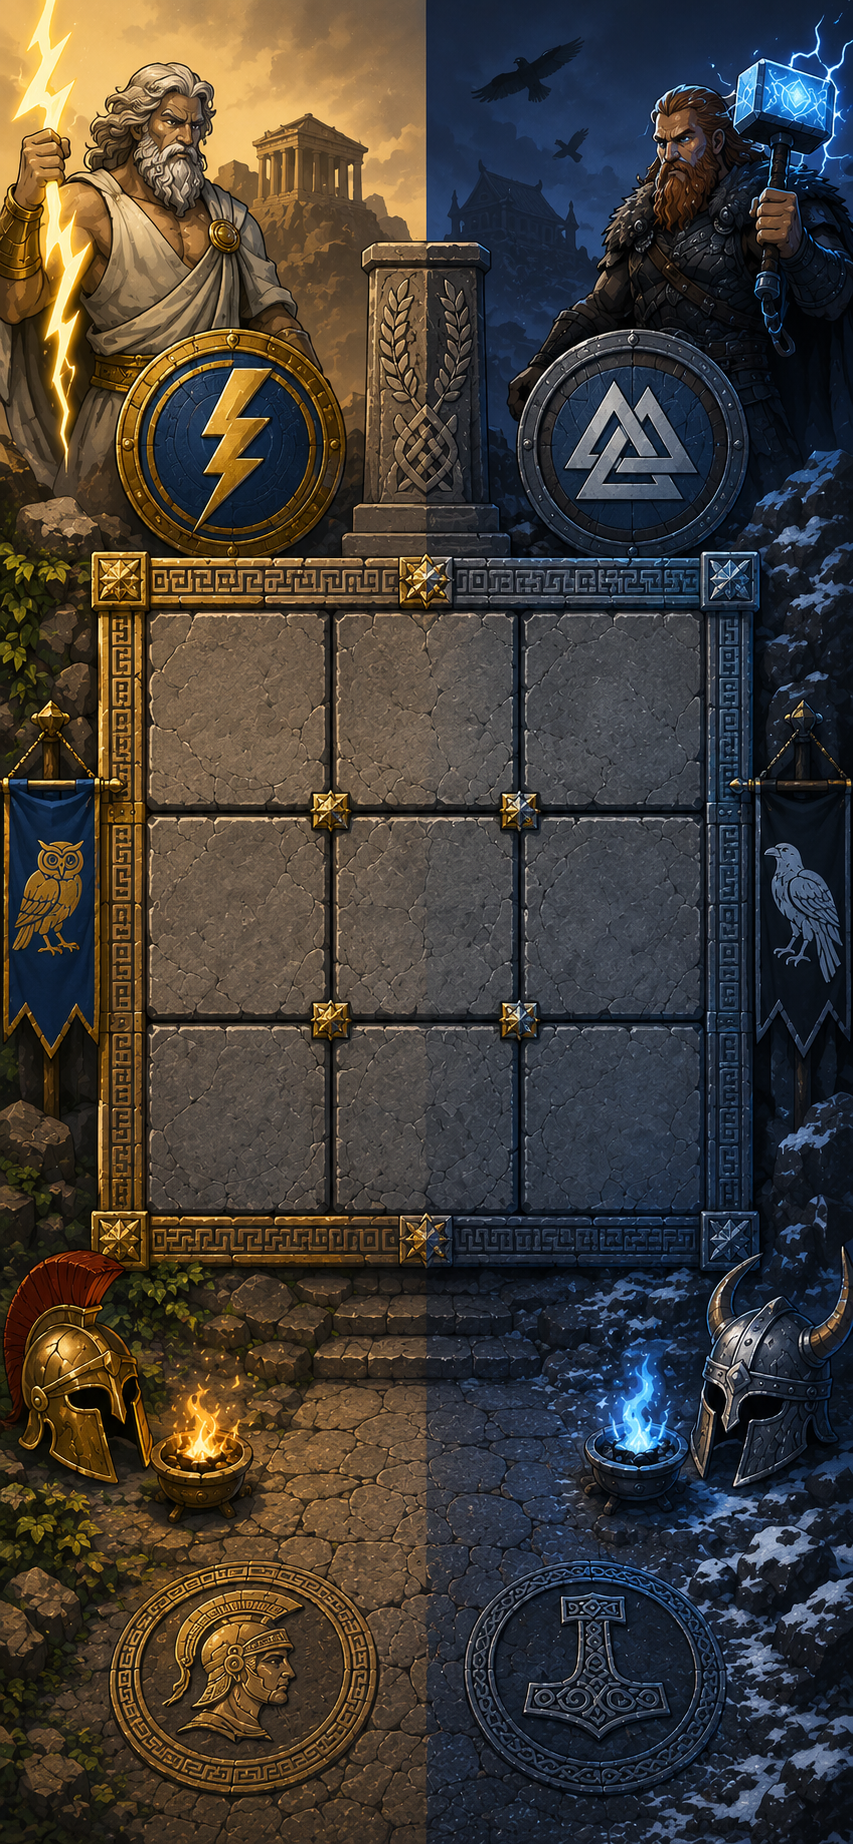
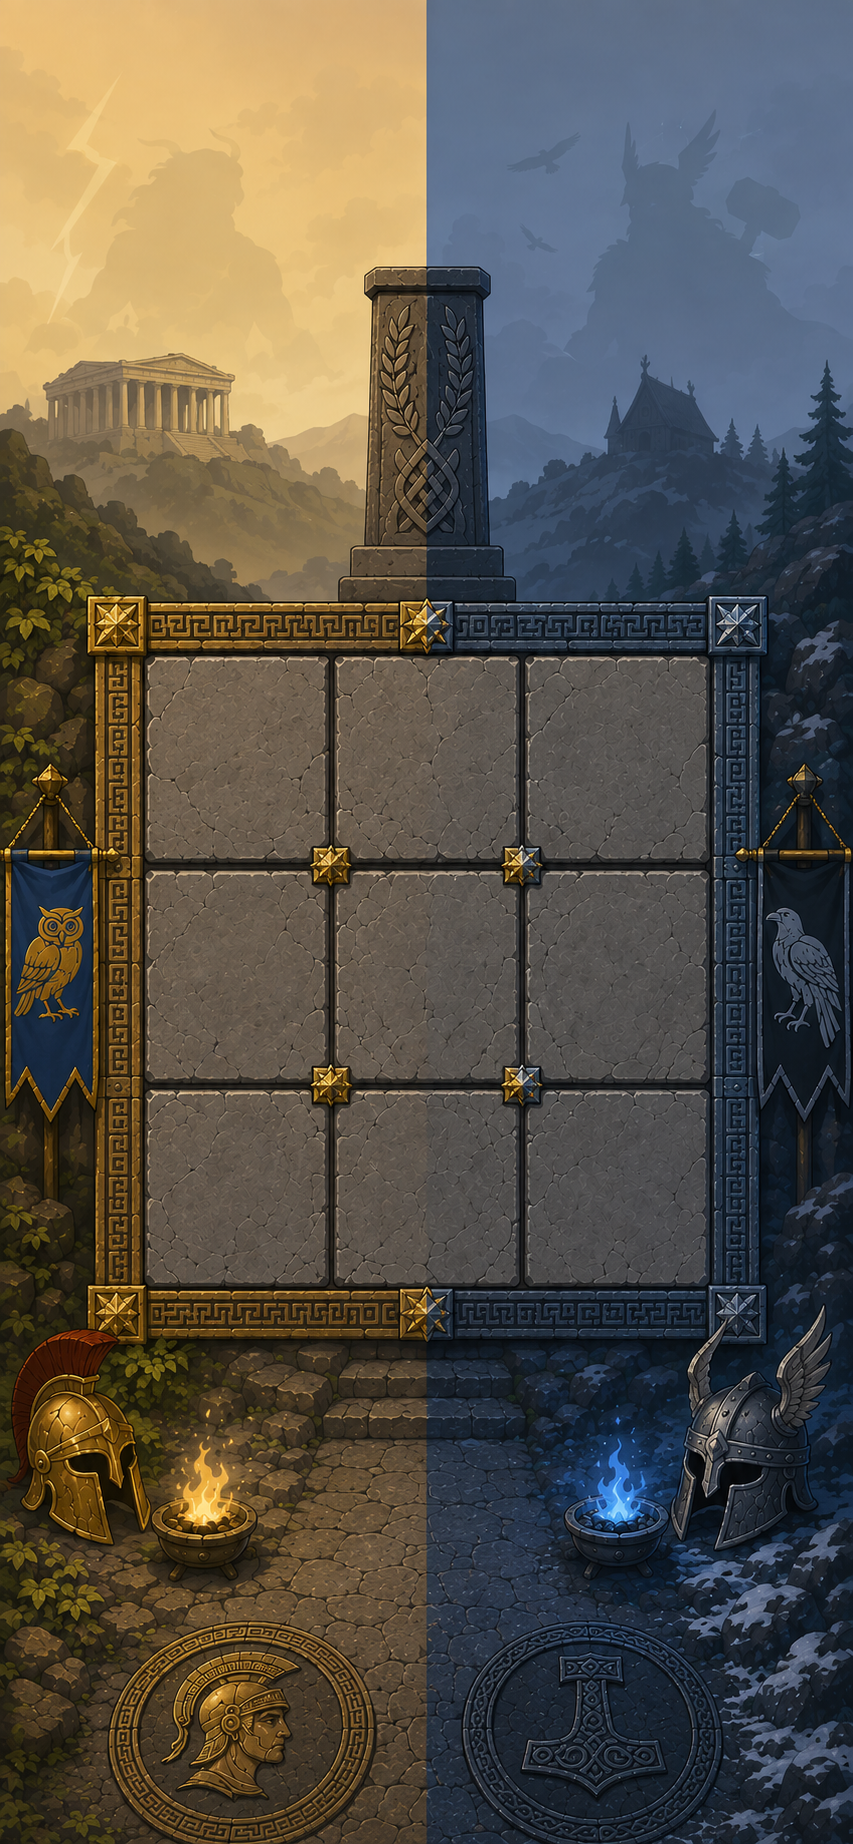
fix: board updated to another with more flat colours

diff --git a/src/main.tsx b/src/main.tsx
@@ -2,52 +2,8 @@ import React, { useEffect, useRef, useState } from 'react';
 import { createRoot } from 'react-dom/client';
 import './style.css';
 import boardImage from './assets/boards/board.png';
-import player1Image from './assets/players/hoplita.png';
-import player2Image from './assets/players/ulfsark.png';
 
-import athenaImage from './assets/players/athena.png';
-import minotaurImage from './assets/players/minotaur.png';
-import hadesImage from './assets/players/hades.png';
-import zeusImage from './assets/players/zeus.png';
-
-import freyaImage from './assets/players/freya.png';
-import frostGiantImage from './assets/players/frost-giant.png';
-import helaImage from './assets/players/hela.png';
-import thorImage from './assets/players/thor.png';
-
-import forsetiImage from './assets/players/forseti.png';
-import lokiImage from './assets/players/loki.png';
-import odinImage from './assets/players/odin.png';
-import skadiImage from './assets/players/skadi.png';
-import valkyrieImage from './assets/players/valkiria.png';
-
-import aphroditeImage from './assets/players/afrodita.png';
-import poseidonImage from './assets/players/poseidon.png';
-import demeterImage from './assets/players/demeter.png';
-import hermesImage from './assets/players/hermes.png';
-import hestaImage from './assets/players/hestia.png';
-
-import hopliteSound from './assets/sounds/hoplite.mp3';
-import ulfsarkSound from './assets/sounds/ulfsark.mp3';
 import victorySound from './assets/sounds/victory.mp3';
-import athenaSound from './assets/sounds/athena.mp3';
-import minotaurSound from './assets/sounds/minotaur.mp3';
-import hadesSound from './assets/sounds/hades.mp3';
-import zeusSound from './assets/sounds/zeus.mp3';
-import frostGiantSound from './assets/sounds/frost-giant.mp3';
-import helSound from './assets/sounds/hel.mp3';
-import thorSound from './assets/sounds/thor.mp3';
-import freyaSound from './assets/sounds/freya.mp3';
-import aphroditeSound from './assets/sounds/afrodita.mp3';
-import demeterSound from './assets/sounds/demeter.mp3';
-import hermesSound from './assets/sounds/hermes.mp3';
-import hestaSound from './assets/sounds/hestia.mp3';
-import poseidonSound from './assets/sounds/poseidon.mp3';
-import lokiSound from './assets/sounds/loki.mp3';
-import skadiSound from './assets/sounds/skadi.mp3';
-import odinSound from './assets/sounds/odin.mp3';
-import valkyrieSound from './assets/sounds/valkiria.mp3';
-import forsetiSound from './assets/sounds/forseti.mp3';
 import defeatSound from './assets/sounds/defeat.mp3';
 import drawSound from './assets/sounds/draw.mp3';
 import ambienceSound from './assets/sounds/ambience.mp3';

diff --git a/src/style.css b/src/style.css
@@ -23,7 +23,7 @@ main {
 /* ===== ESCENA ===== */
 .scene {
   --board-left: 15.35%;
-  --board-top: 33.25%;
+  --board-top: 36.25%;
   --board-width: 67.75%;
   --board-height: 33.20%;
 
